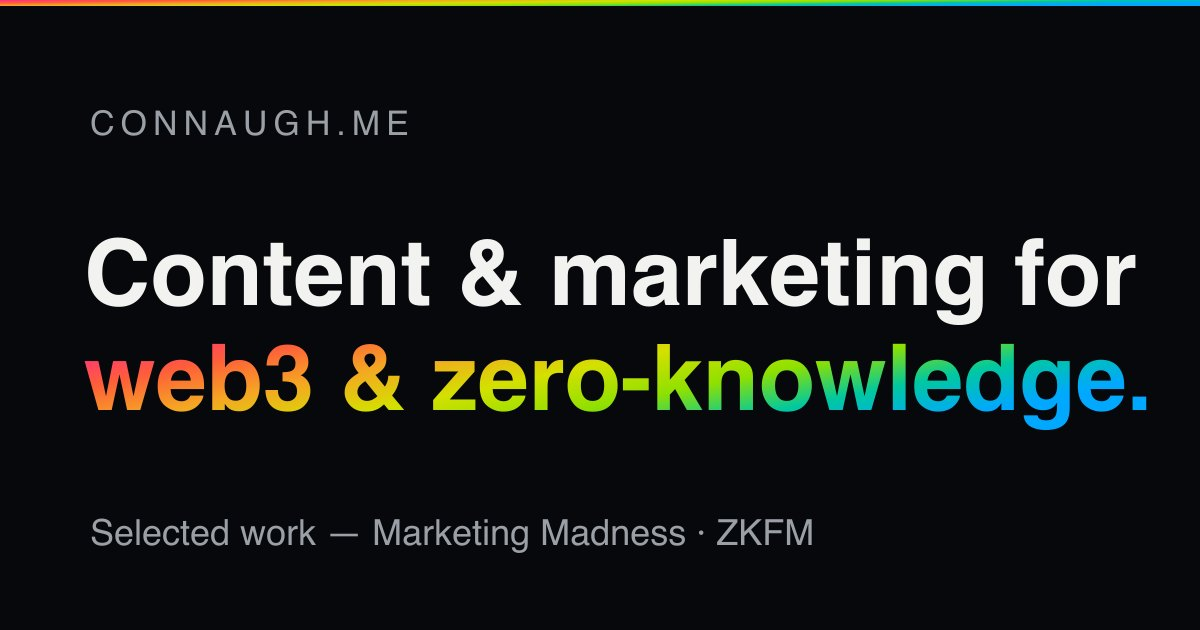
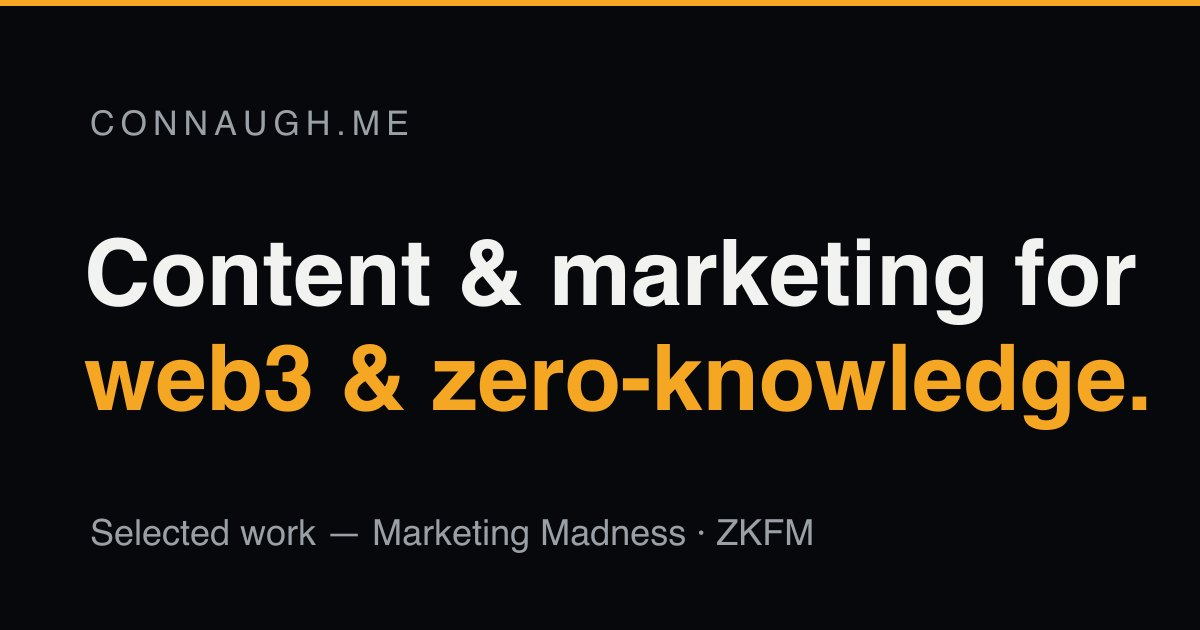
Site audit follow-ups: WebP fallback, in-page nav, rebrand, CSP hardening
- AVIF→WebP fallback: generate WebP siblings for all thumbs/posters and wrap
  every image in <picture> (AVIF source + WebP <img>) so Safari <16.4 renders.
- In-page journey nav: sticky "tuner" bar (Top + 3 frequencies) with active-state
  highlighting via IntersectionObserver + scroll-margin for the sticky offset.
- Portfolio rebrand: new "C" monogram favicon (amber) + hub accent moved off the
  Marketing-Madness rainbow to a single amber signature; each project card keeps
  its own identity. Regenerated hub OG card + apple-touch-icon.
- CSP hardening: route-scoped policy drops 'unsafe-inline' from script-src on the
  hub/MM/ZKFM pages (episodes keep the looser policy their inline StPageFlip needs);
  moved the hub's inline year-stamp to assets/js/year.js.

Claude-Session: https://claude.ai/code/session_01Eki2fmxXBhaeB4A4jL2zBd

diff --git a/assets/js/zkfm.js b/assets/js/zkfm.js
@@ -125,6 +125,9 @@ const FREQUENCIES = [
 
 const pad = (n) => String(n).padStart(2, "0");
 const esc = (s) => String(s).replace(/&/g, "&amp;").replace(/</g, "&lt;").replace(/>/g, "&gt;").replace(/"/g, "&quot;");
+// <picture> with AVIF + WebP fallback (Safari < 16.4 lacks AVIF). imgAttrs is a raw attribute string.
+const pic = (avif, imgAttrs) =>
+  `<picture><source type="image/avif" srcset="${avif}" /><img src="${avif.replace(/\.avif$/, ".webp")}" ${imgAttrs} /></picture>`;
 
 // ---- Build the DOM ---------------------------------------------------------
 
@@ -136,7 +139,7 @@ function videoCard(day, v) {
   const t = esc(meta.t || `Day ${day} · Video ${v}`);
   return `
     <button class="vid" data-vid="${id}" data-key="${key}" title="${t}" aria-label="Play: ${t}">
-      <img class="vid__thumb" src="/assets/zkfm/thumbs/d${dd}v${v}.avif" alt="ZKFM Day ${day} Video ${v} — ${t}" loading="lazy" />
+      ${pic(`/assets/zkfm/thumbs/d${dd}v${v}.avif`, `class="vid__thumb" alt="ZKFM Day ${day} Video ${v} — ${t}" loading="lazy"`)}
       <span class="vid__play" aria-hidden="true"></span>
       <span class="vid__tag">D${day} · V${v}</span>
     </button>`;
@@ -161,7 +164,7 @@ function dayScene(d, freq) {
         <figure class="poster poster--take">
           <figcaption>The Download</figcaption>
           <button class="poster__zoom" aria-label="Enlarge briefing — ${esc(d.title)}">
-            <img src="/assets/zkfm/posters/day${dd}-info.avif" alt="ZKFM Day ${d.day} briefing — ${esc(d.title)}" loading="lazy" />
+            ${pic(`/assets/zkfm/posters/day${dd}-info.avif`, `alt="ZKFM Day ${d.day} briefing — ${esc(d.title)}" loading="lazy"`)}
           </button>
         </figure>`;
   return `
@@ -175,7 +178,7 @@ function dayScene(d, freq) {
         <figure class="poster poster--lineup">
           <figcaption>On Air Today</figcaption>
           <button class="poster__zoom" aria-label="Enlarge lineup — ${esc(d.title)}">
-            <img src="/assets/zkfm/posters/day${dd}-lineup.avif" alt="ZKFM Day ${d.day} lineup — ${esc(d.title)}" loading="lazy" />
+            ${pic(`/assets/zkfm/posters/day${dd}-lineup.avif`, `alt="ZKFM Day ${d.day} lineup — ${esc(d.title)}" loading="lazy"`)}
           </button>
         </figure>${briefing}
       </div>
@@ -236,7 +239,7 @@ if (yEl) yEl.textContent = new Date().getFullYear();
     el.className = "ctile";
     el.style.width = a.w + "px";
     el.style.opacity = "0";
-    el.innerHTML = `<img src="${a.src}" alt="" loading="lazy" decoding="async" fetchpriority="low" />`;
+    el.innerHTML = pic(a.src, `alt="" loading="lazy" decoding="async" fetchpriority="low"`);
     field.appendChild(el);
     tiles.push(el);
   }
@@ -376,6 +379,27 @@ if (yEl) yEl.textContent = new Date().getFullYear();
     document.body.style.overflow = "hidden";
     closeBtn.focus();
   });
+})();
+
+// ---- Tuner: highlight the active frequency while scrolling -----------------
+
+(function initTuner() {
+  const links = {};
+  document.querySelectorAll(".zk-tuner a[data-freq]").forEach((a) => (links[a.dataset.freq] = a));
+  const acts = document.querySelectorAll(".act");
+  if (!acts.length || !("IntersectionObserver" in window)) return;
+  const io = new IntersectionObserver(
+    (entries) => {
+      entries.forEach((e) => {
+        if (!e.isIntersecting) return;
+        const n = e.target.id.replace("freq-", "");
+        Object.values(links).forEach((a) => a.classList.remove("is-active"));
+        if (links[n]) links[n].classList.add("is-active");
+      });
+    },
+    { rootMargin: "-45% 0px -45% 0px" }
+  );
+  acts.forEach((a) => io.observe(a));
 })();
 
 // ---- Cinematic choreography (GSAP) -----------------------------------------

diff --git a/assets/css/zkfm.css b/assets/css/zkfm.css
@@ -50,6 +50,7 @@ body::after {
   mix-blend-mode: multiply; opacity: 0.5;
 }
 a { color: inherit; }
+picture { display: contents; }
 
 /* ---- Header ---- */
 .zk-header {
@@ -64,6 +65,23 @@ a { color: inherit; }
 .zk-wordmark { font-family: var(--mono); font-weight: 700; letter-spacing: 0.35em; font-size: 15px; color: var(--green); text-shadow: 2px 0 var(--magenta), -2px 0 var(--cyan); }
 .zk-x { color: var(--ink); border: 1px solid var(--line); padding: 0 14px; border-radius: 999px; }
 .zk-x:hover { border-color: var(--green); color: var(--green); }
+
+/* Sticky frequency tuner (in-page nav for the 21-day journey) */
+.zk-tuner {
+  position: sticky; top: 80px; z-index: 90;
+  display: flex; gap: 18px; justify-content: center; align-items: center;
+  padding: 10px 16px; overflow-x: auto; white-space: nowrap; scrollbar-width: none;
+  border-bottom: 1px solid var(--line);
+  background: rgba(7,8,11,0.82); -webkit-backdrop-filter: blur(8px); backdrop-filter: blur(8px);
+  font-family: var(--mono); font-size: 11px; letter-spacing: 0.12em; text-transform: uppercase;
+}
+.zk-tuner::-webkit-scrollbar { display: none; }
+.zk-tuner a { color: var(--muted); text-decoration: none; padding: 6px 4px; flex: none; }
+.zk-tuner a:hover { color: var(--ink); }
+.zk-tuner a.is-active { color: var(--lime); }
+
+.act, #top { scroll-margin-top: 132px; }
+@media (prefers-reduced-motion: no-preference) { html { scroll-behavior: smooth; } }
 
 /* ---- Hero + 3D collage ---- */
 .zk-hero {

diff --git a/zkfm/index.html b/zkfm/index.html
@@ -42,8 +42,15 @@
     <a class="zk-x" href="https://x.com/ZKFMradio" target="_blank" rel="noopener noreferrer">@ZKFMradio</a>
   </header>
 
+  <nav class="zk-tuner" aria-label="Frequencies">
+    <a href="#top">▲ Top</a>
+    <a href="#freq-01" data-freq="01">01 · Ground Zero</a>
+    <a href="#freq-02" data-freq="02">02 · Nullify</a>
+    <a href="#freq-03" data-freq="03">03 · Witness This</a>
+  </nav>
+
   <main>
-    <section class="zk-hero">
+    <section class="zk-hero" id="top">
       <div class="zk-hero__collage" id="collage" aria-hidden="true"></div>
       <div class="zk-hero__inner">
         <h1 class="zk-hero__mark">ZKFM</h1>

diff --git a/assets/css/home.css b/assets/css/home.css
@@ -53,10 +53,7 @@ a { color: inherit; text-decoration: none; }
   line-height: 1.05;
 }
 .home-hero__title .accent {
-  background: var(--mm-grad);
-  -webkit-background-clip: text;
-  background-clip: text;
-  color: transparent;
+  color: #f5a623;
 }
 .home-hero__sub {
   margin-top: 18px;

diff --git a/index.html b/index.html
@@ -97,6 +97,6 @@
     <span>© <span id="year"></span> Connaugh. All rights reserved.</span>
   </footer>
 
-  <script>document.getElementById("year").textContent = new Date().getFullYear();</script>
+  <script src="/assets/js/year.js"></script>
 </body>
 </html>

diff --git a/assets/js/year.js b/assets/js/year.js
@@ -1,0 +1,2 @@
+var y = document.getElementById("year");
+if (y) y.textContent = new Date().getFullYear();
